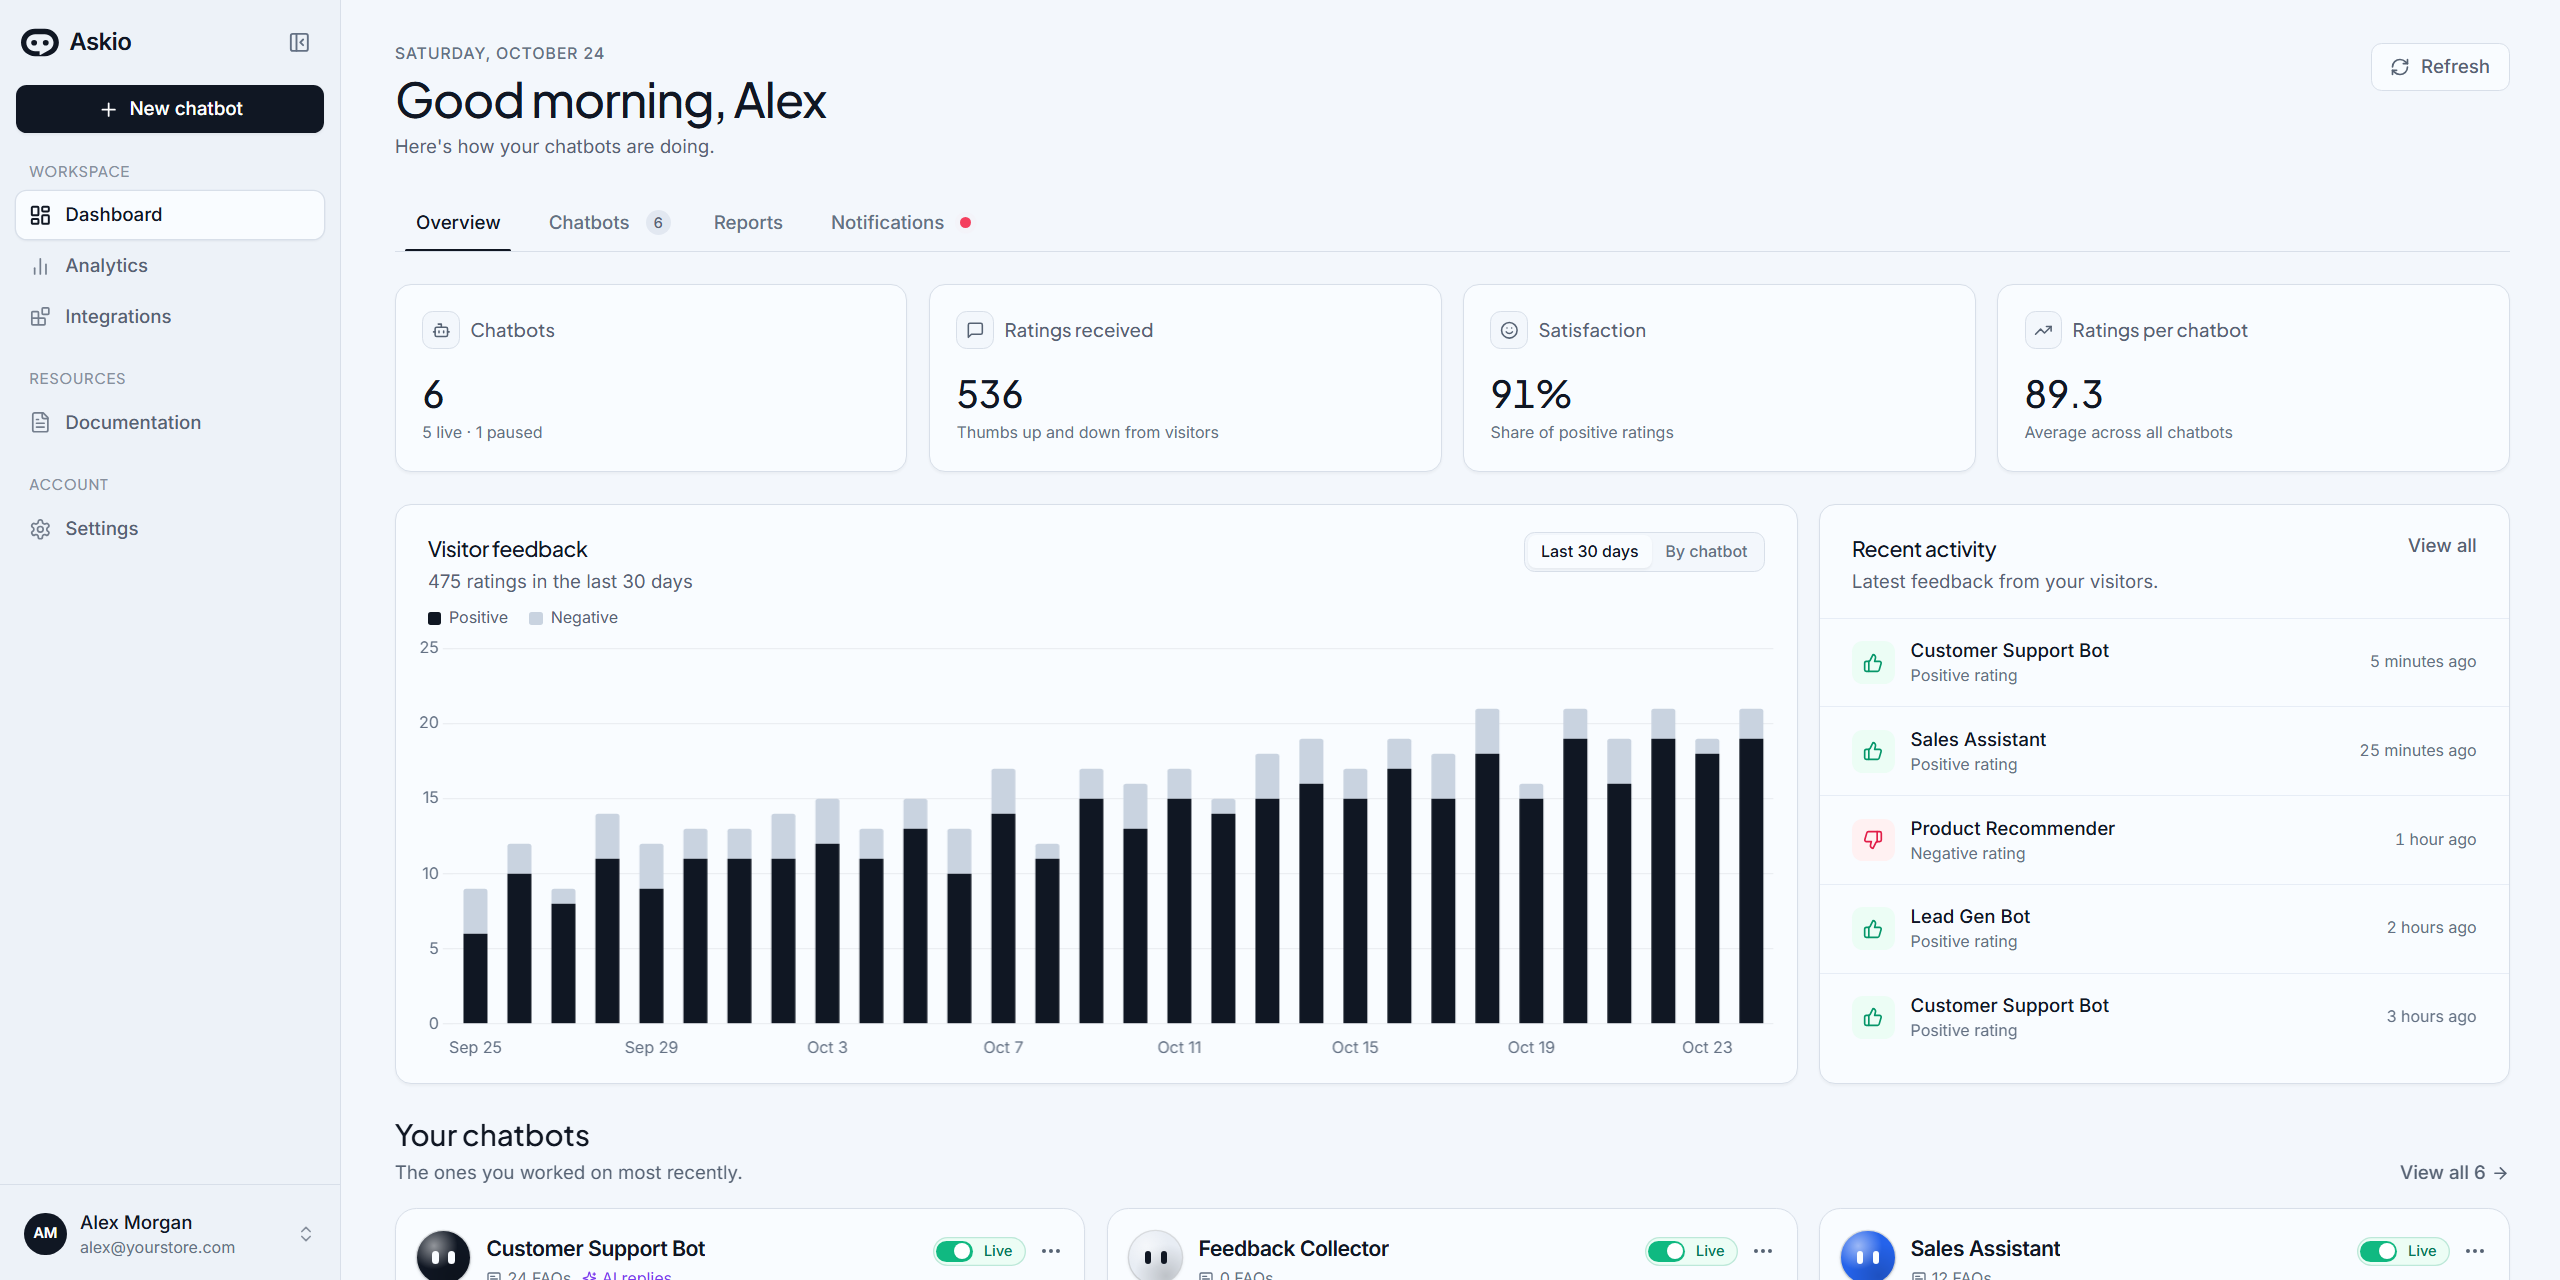
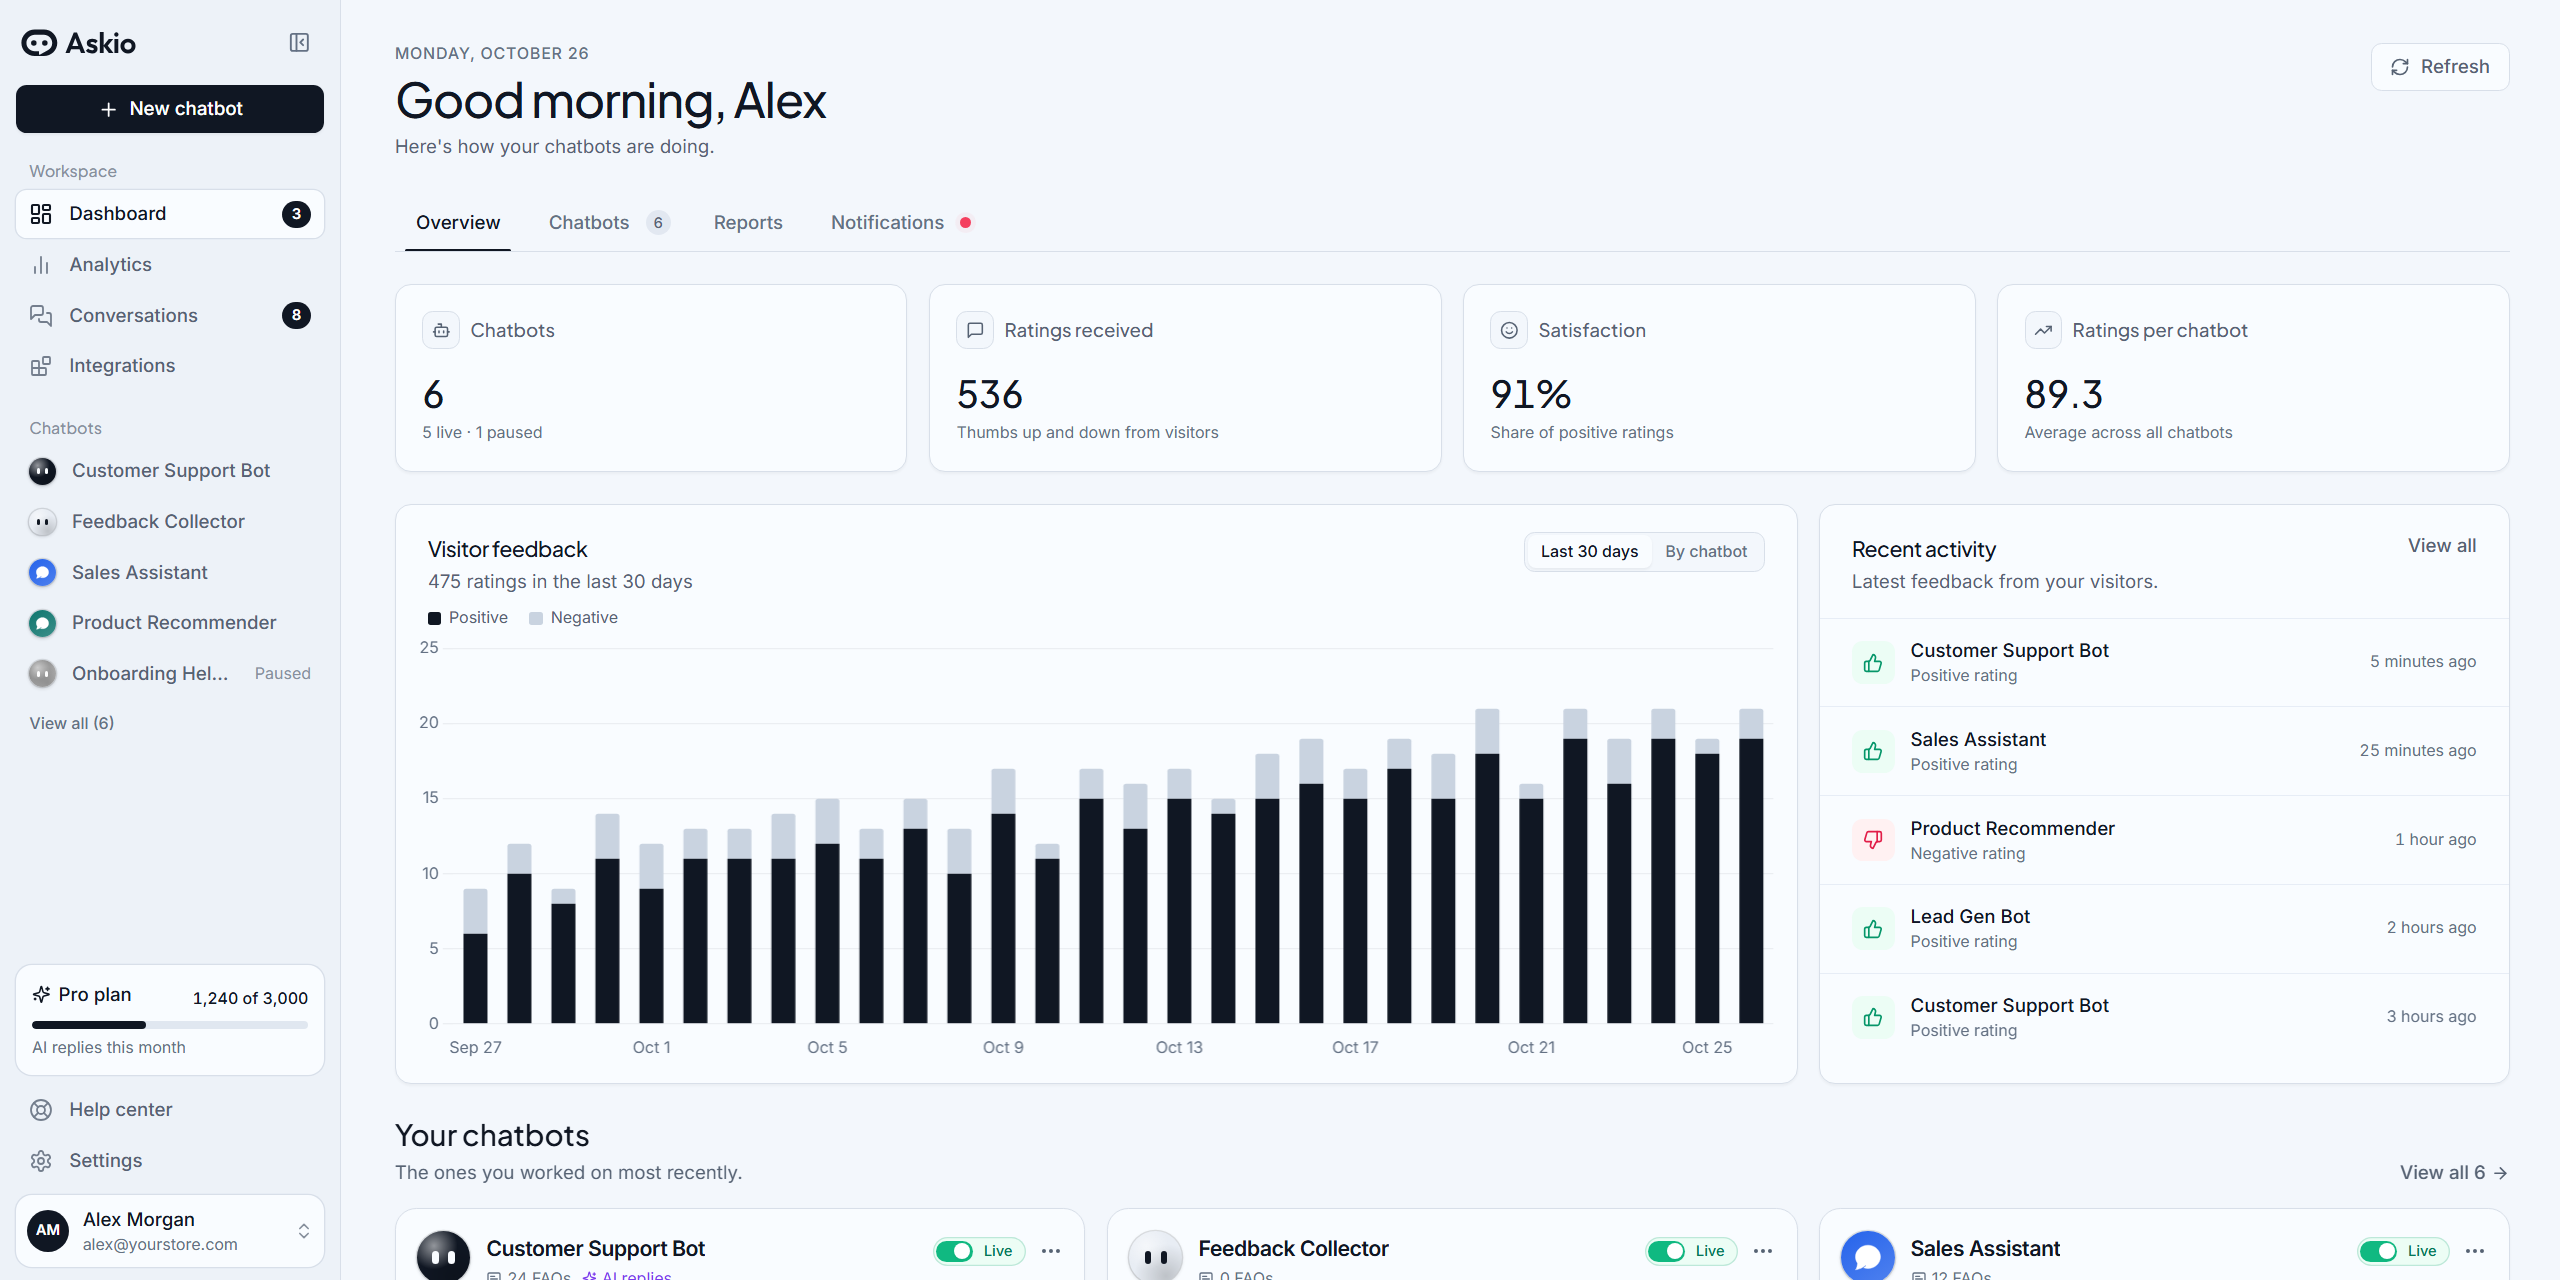
feat(home): retake the hero screenshot; tidy the sidebar Pro card
- Hero image shows the new logo, sidebar counts, chatbots list and plan
  card, at the same size and framing.
- The Pro card puts the reply count beside "Pro plan" so the label no
  longer wraps.

diff --git a/src/components/Navbar.tsx b/src/components/Navbar.tsx
@@ -258,23 +258,23 @@ const Navbar: React.FC<NavbarProps> = ({
           : "bg-[#101723] dark:bg-[#D7DFE5]";
     return (
       <Link to="/settings" className={`block transition-colors hover:ring-[#B8C2CF] dark:hover:ring-[#39485B] ${card} ${focusRing}`}>
-        <p className="flex items-center gap-1.5 text-body-sm font-medium text-[#101723] dark:text-[#D7DFE5]">
-          <Sparkles size={14} className="shrink-0" />
-          {t("proPlan")}
-        </p>
-        <div className="mt-2 flex items-baseline justify-between gap-2 text-caption">
-          <span className="text-[#647184] dark:text-[#87909D]">{t("aiReplies")}</span>
-          <span className="shrink-0 font-medium tabular-nums text-[#101723] dark:text-[#D7DFE5]">
+        <div className="flex items-baseline justify-between gap-2">
+          <p className="flex items-center gap-1.5 text-body-sm font-medium text-[#101723] dark:text-[#D7DFE5]">
+            <Sparkles size={14} className="shrink-0" />
+            {t("proPlan")}
+          </p>
+          <span className="shrink-0 text-caption font-medium tabular-nums text-[#101723] dark:text-[#D7DFE5]">
             {limit === null
               ? t("repliesUsedUnlimited", { used: used.toLocaleString(t.lang) })
               : t("repliesUsed", { used: used.toLocaleString(t.lang), limit: limit.toLocaleString(t.lang) })}
           </span>
         </div>
         {limit !== null && (
-          <div className="mt-1.5 h-1.5 overflow-hidden rounded-full bg-[#E0E7F0] dark:bg-[#2B3646]">
+          <div className="mt-2 h-1.5 overflow-hidden rounded-full bg-[#E0E7F0] dark:bg-[#2B3646]">
             <div className={`h-full rounded-full ${bar}`} style={{ width: `${Math.max(ratio * 100, used > 0 ? 2 : 0)}%` }} />
           </div>
         )}
+        <p className="mt-1.5 text-caption text-[#647184] dark:text-[#87909D]">{t("aiReplies")}</p>
       </Link>
     );
   };
